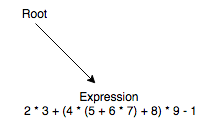
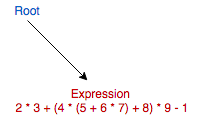
Correct typos and add color coding

Changed region(s): [[0.0591, 0.6905, 0.9458, 0.9286], [0.1182, 0.1667, 0.4433, 0.6429], [0.0591, 0.0476, 0.2365, 0.1429]]

diff --git a/chap-4-parser.md b/chap-4-parser.md
@@ -161,7 +161,9 @@ Root
 
 Here are some sketches of this process to help you visualize.
 
-In this example we are using the expression 
+Blue means this node is new this step, red means its both new and the currently active node.
+
+In this example we are using the expression:
 
 ```crystal
 2 * 3 + (4 * (5 + 6 * 7) + 8) * 9 - 1
